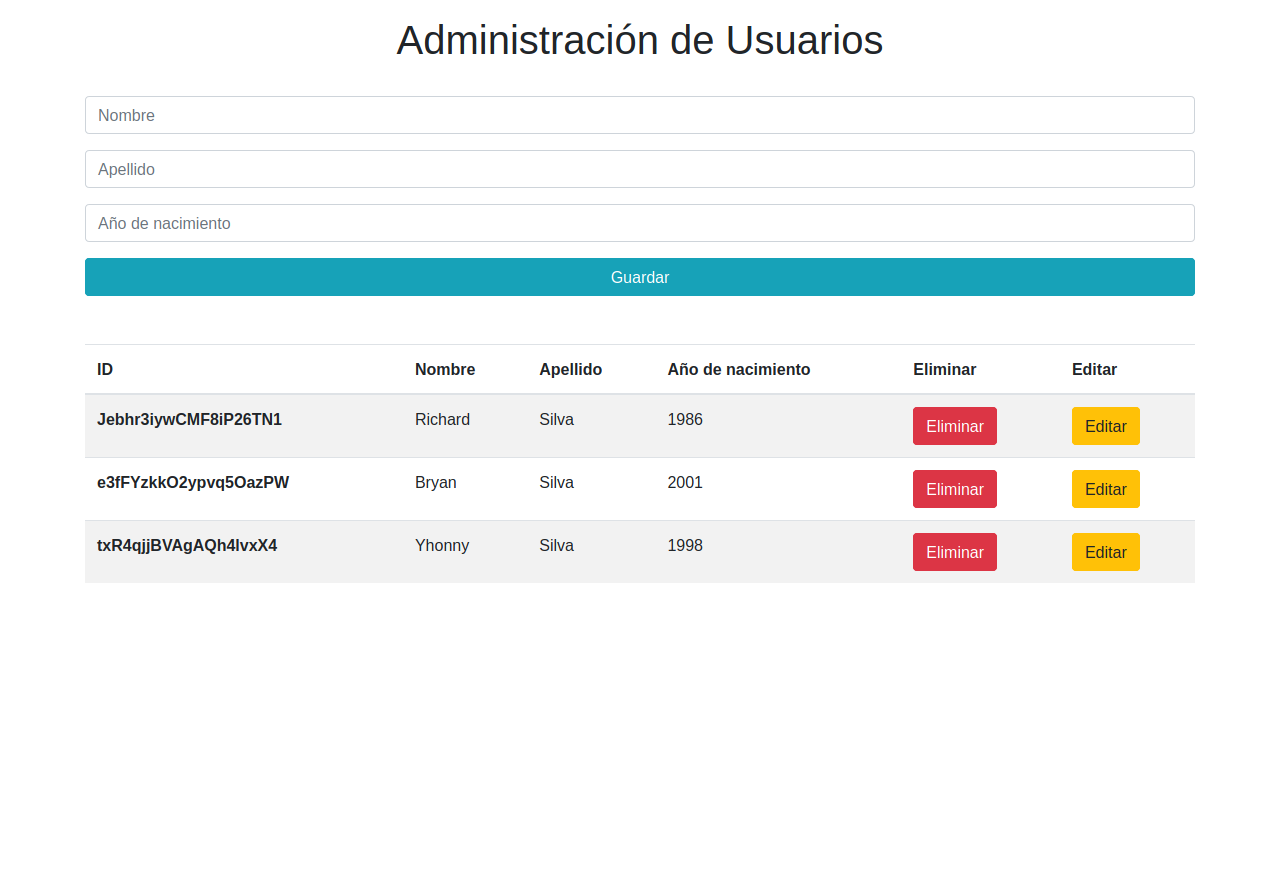
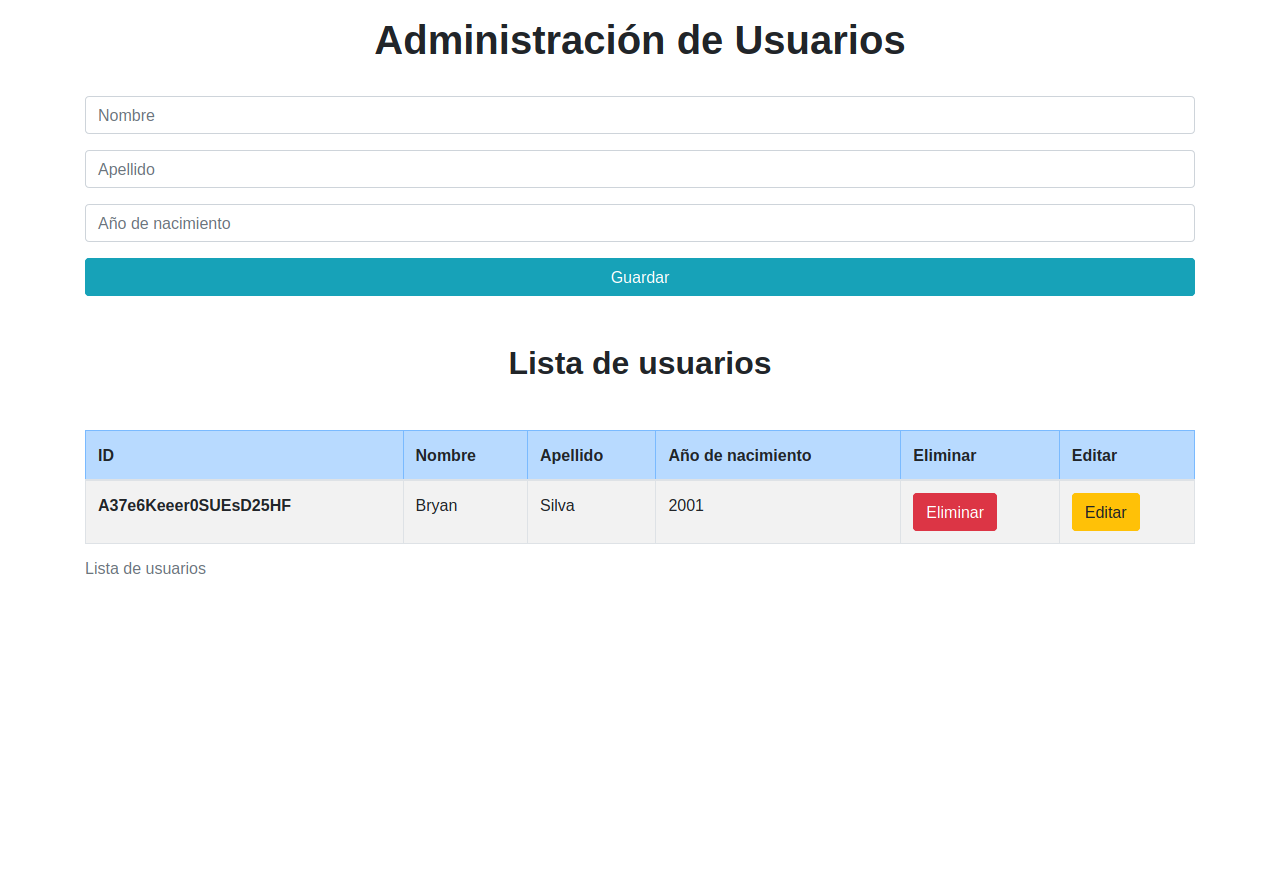
Pretty

diff --git a/index.html b/index.html
@@ -13,29 +13,33 @@
   <body>
 
     <div class="container">
-        <h1 class="py-3 text-center">Administración de Usuarios</h1>
+        <h1 class="py-3 font-weight-bold text-center">Administración de Usuarios</h1>
         <input type="text" id="nombre" placeholder="Nombre" class="form-control my-3">
         <input type="text" id="apellido" placeholder="Apellido" class="form-control my-3">
         <input type="text" id="fecha" placeholder="Año de nacimiento" class="form-control my-3">
         <button class="btn btn-block btn-info" id="boton" onclick="guardar()">Guardar</button>
+      
+        <div class="table-responsive-sm">
 
-        <table class="table table-hover table-striped table-inverse my-5">
-            <thead class="thead-inverse">
-                <tr>
-                    <th>ID</th>
-                    <th>Nombre</th>
-                    <th>Apellido</th>
-                    <th>Año de nacimiento</th>
-                    <th>Eliminar</th>
-                    <th>Editar</th>
-                </tr>
-                </thead>
-                <tbody id="tabla"></tbody>
-        </table>
+          <h2 class="mt-5 font-weight-bold text-center">Lista de usuarios</h2>
+
+          <table class="table table-bordered table-hover table-striped table-inverse my-5">
+            <caption>Lista de usuarios</caption>
+              <thead class="thead-inverse">
+                  <tr class="table-primary">
+                      <th>ID</th>
+                      <th>Nombre</th>
+                      <th>Apellido</th>
+                      <th>Año de nacimiento</th>
+                      <th>Eliminar</th>
+                      <th>Editar</th>
+                  </tr>
+                  </thead>
+                  <tbody id="tabla"></tbody>
+          </table>
+        </div><!--.table-responsive-sm-->
+
     </div><!--.container-->
-
-
-
 
     <!-- FIRESTORE -->
     <script src="https://www.gstatic.com/firebasejs/7.2.3/firebase-app.js"></script>
@@ -46,7 +50,6 @@
     <script src="https://code.jquery.com/jquery-3.4.1.slim.min.js" integrity="sha384-J6qa4849blE2+poT4WnyKhv5vZF5SrPo0iEjwBvKU7imGFAV0wwj1yYfoRSJoZ+n" crossorigin="anonymous"></script>
     <script src="https://cdn.jsdelivr.net/npm/popper.js@1.16.0/dist/umd/popper.min.js" integrity="sha384-Q6E9RHvbIyZFJoft+2mJbHaEWldlvI9IOYy5n3zV9zzTtmI3UksdQRVvoxMfooAo" crossorigin="anonymous"></script>
     <script src="https://stackpath.bootstrapcdn.com/bootstrap/4.4.1/js/bootstrap.min.js" integrity="sha384-wfSDF2E50Y2D1uUdj0O3uMBJnjuUD4Ih7YwaYd1iqfktj0Uod8GCExl3Og8ifwB6" crossorigin="anonymous"></script>
-    <script src='config.js'></script>
     <script src="app.js"></script>
   </body>
 </html>
